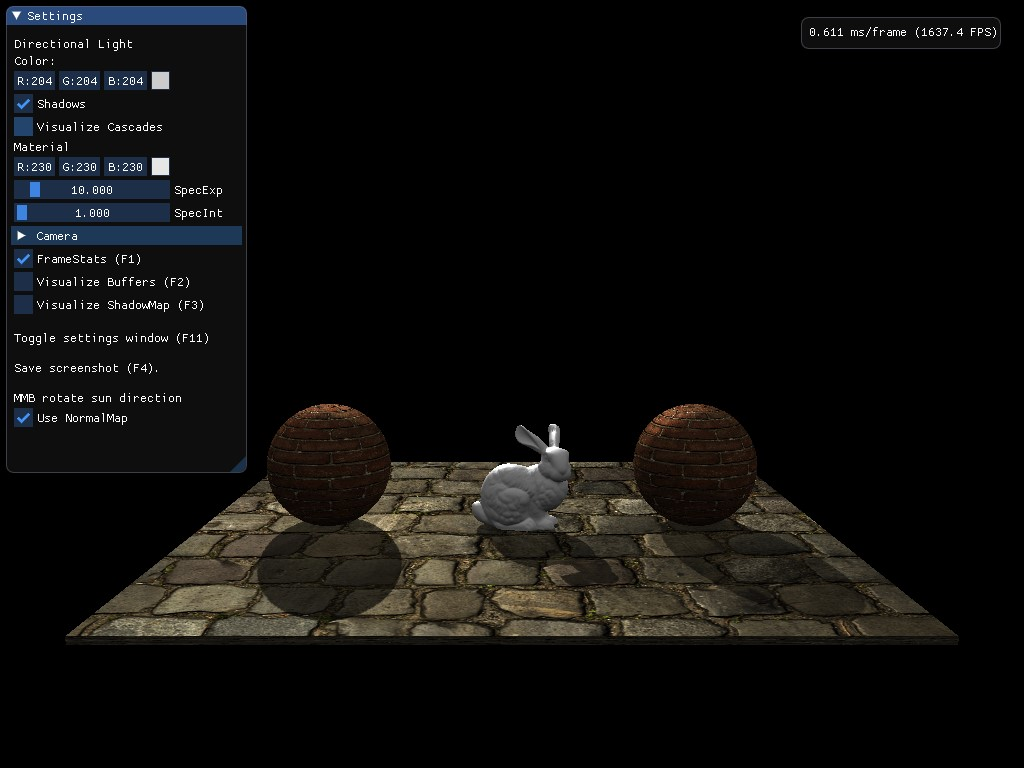
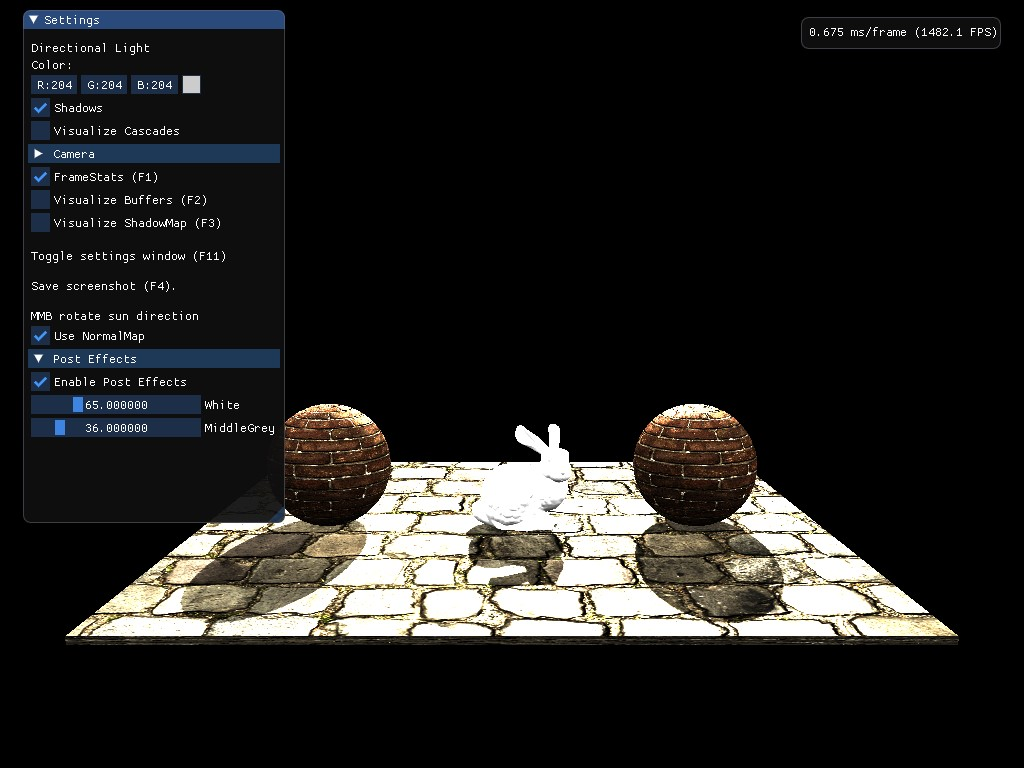
fix HDR sliders and value scaling.

Changed region(s): [[0.0, 0.0, 0.9375, 0.8438]]

diff --git a/EffectsRendering/EffectsRendering.cpp b/EffectsRendering/EffectsRendering.cpp
@@ -123,9 +123,9 @@ private:
 	ID3D11ShaderResourceView*	mHDRSRV = NULL;
 
 	float	mMiddleGreyMax = 6.0;
-	float	mMiddleGrey = 0.863f * mMiddleGreyMax + 0.000001f;
+	float	mMiddleGrey = 0.863f;
 	float	mWhiteMax = 6.0f;
-	float	mWhite = 1.53f * mWhiteMax + 0.00001f;
+	float	mWhite = 1.53f ;
 };
 
 
@@ -706,18 +706,6 @@ void DeferredShaderApp::RenderGUI()
 			ImGui::Checkbox("Shadows##dirshadow", &mDirCastShadows); 
 			ImGui::Checkbox("Visualize Cascades##visCascades", &mVisualizeCascades);
 			
-			ImGui::Text("Material");
-			Mesh* mesh = mSceneManager.GetMesh(0);
-			Material mat = mesh->mMaterials[0];
-			
-			XMFLOAT4 diffuse = mat.Diffuse;
-			static ImVec4 difcolor = ImColor(diffuse.x, diffuse.y, diffuse.z);
-			ImGui::ColorEdit3("Diffuse Color##matcol1", (float*)& difcolor, ImGuiColorEditFlags_NoLabel);
-			mat.Diffuse = XMFLOAT4((float*)& difcolor);
-			ImGui::SliderFloat("SpecExp", &mat.specExp, 0.1f, 100.0f, "%.3f");
-			ImGui::SliderFloat("SpecInt", &mat.specIntensivity, 0.1f, 100.0f, "%.3f");	
-			mesh->mMaterials[0] = mat;
-
 			if (ImGui::CollapsingHeader("Camera"))
 			{
 				float campos[3] = { mCamera->GetPosition().x, mCamera->GetPosition().y, mCamera->GetPosition().z };
@@ -741,9 +729,17 @@ void DeferredShaderApp::RenderGUI()
 
 			ImGui::Checkbox("Use NormalMap", &g_useNormalMap);
 
-			if (ImGui::CollapsingHeader("Post Effects"))
+			if (ImGui::CollapsingHeader("Post Effects", ImGuiTreeNodeFlags_DefaultOpen))
 			{
 				ImGui::Checkbox("Enable Post Effects", &mEnablePostFX);
+
+				int iwhite = (int)((mWhite/mWhiteMax) * 255.0f);
+				ImGui::SliderInt("White", &iwhite, 0, 255, "%1f");
+				mWhite = (iwhite / 255.0f) * mWhiteMax + 0.00001f;
+
+				int imiddleGrey = (int)((mMiddleGrey / mMiddleGreyMax) * 255.0f);
+				ImGui::SliderInt("MiddleGrey", &imiddleGrey, 0, 255, "%1f");
+				mMiddleGrey = (imiddleGrey / 255.0f)  * mMiddleGreyMax + 0.000001f;
 			}
 
 			ImGui::End();
